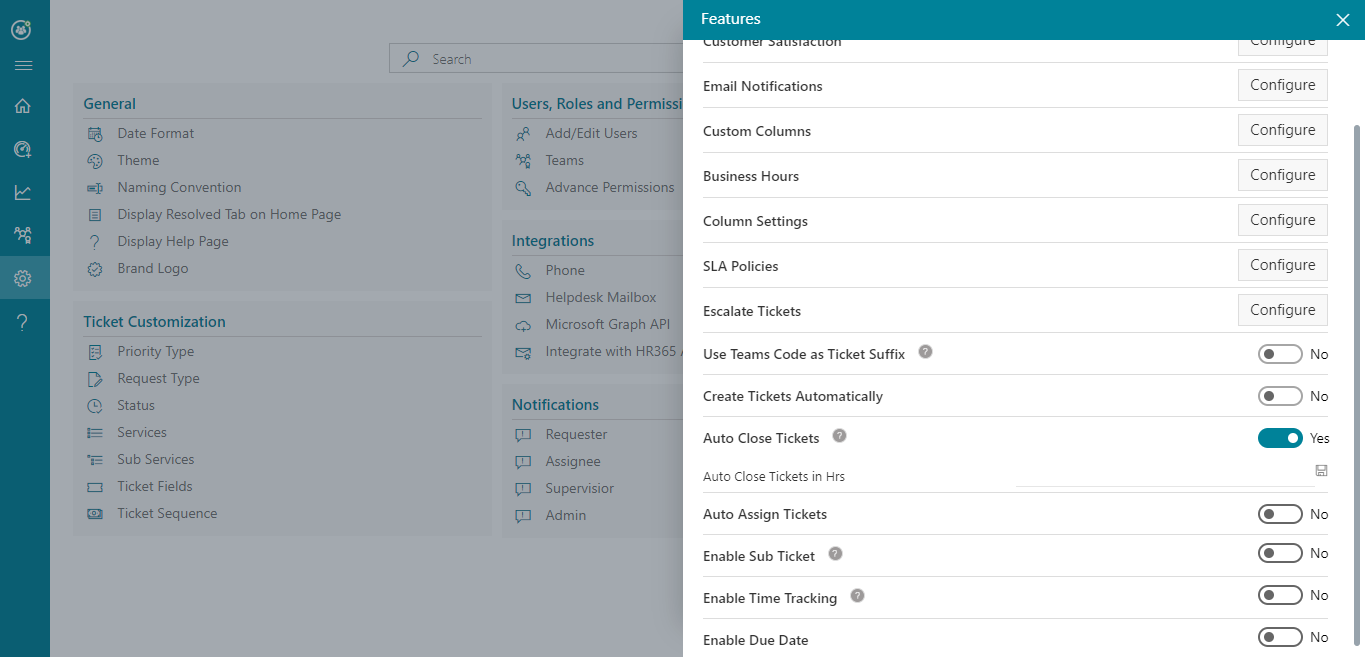
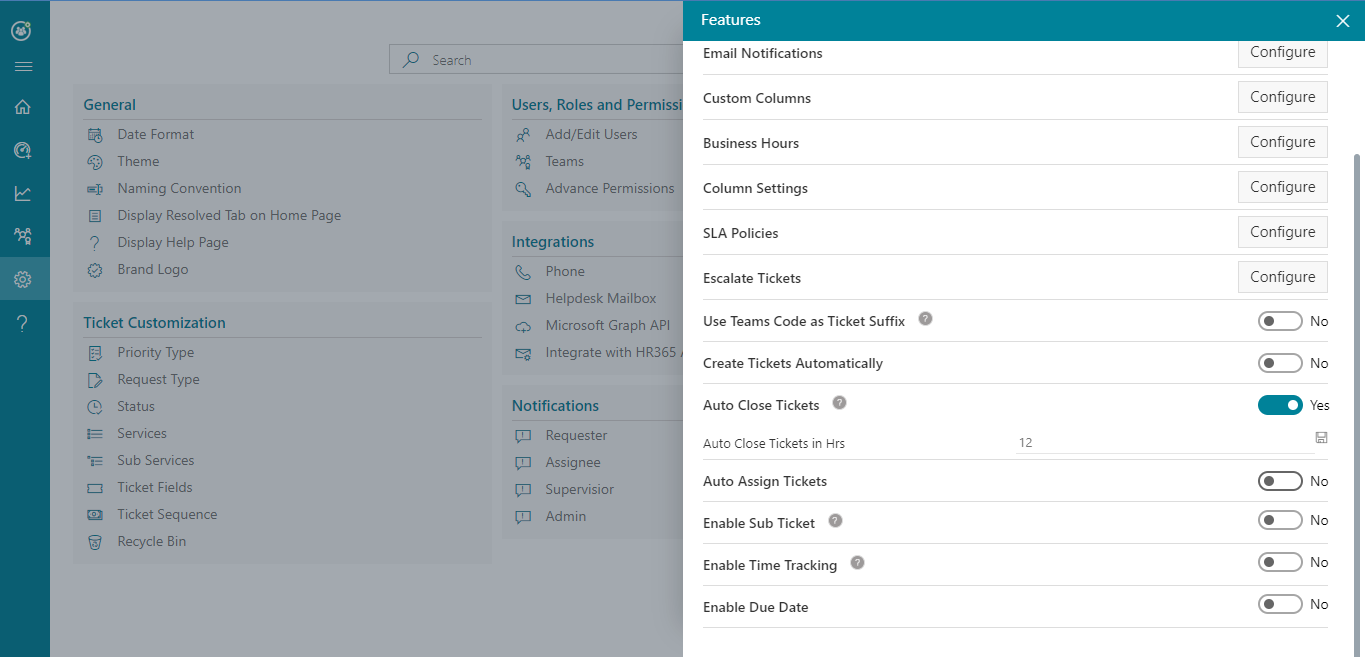
update content

diff --git a/helpdesk/guide/admin/settings/features/auto_assign_ticket/index.html b/helpdesk/guide/admin/settings/features/auto_assign_ticket/index.html
@@ -708,14 +708,12 @@
                                 <br>
                             <b>Allow agents to set their availability</b>: If any agent sets their availability off, tickets will not get assigned to that user.
                                 <br><br>
-                               For auto assign, you have two methods:
-                               <ol>
-                                   <li>
-                                    Round Robin: Assinging the tickets equally in some rational order. 
-                                   </li>
+                               For auto assign, you have two methods. You can select the method. 
+                             <br>
+                               <b> Round Robin</b>: Assinging the tickets equally in some rational order.
                                    <br>
-                                   Weighted Round Robin: Assinging the tickets based on the number task. Those  having less task with get the tickets.
-                               </ol>
+                                   <b>Weighted Round Robin</b>: Assinging the tickets based on the number task. Those  having less task with get the tickets.
+                               <br><br>
                                 <div><img src="auto_assign_ticket.png" onclick="openModal('auto_assign_ticket.png')" alt="" width="100%"
                                     height="auto"></div>
 

diff --git a/helpdesk/guide/admin/settings/features/auto_close_ticket/index.html b/helpdesk/guide/admin/settings/features/auto_close_ticket/index.html
@@ -413,7 +413,7 @@
                             </h2>
                             <br>
 
-                                Admin can add request types from settings such request type will display in new ticket panel.
+                            If this is enabled, the ticket will automatically change the status from resolved to closed, once the ticket in resolved status complete the specified time interval.
                                 <br>
                                 <br>
                                 <div><img src="auto_close_ticket.png" onclick="openModal('auto_close_ticket.png')" alt="" width="100%"
